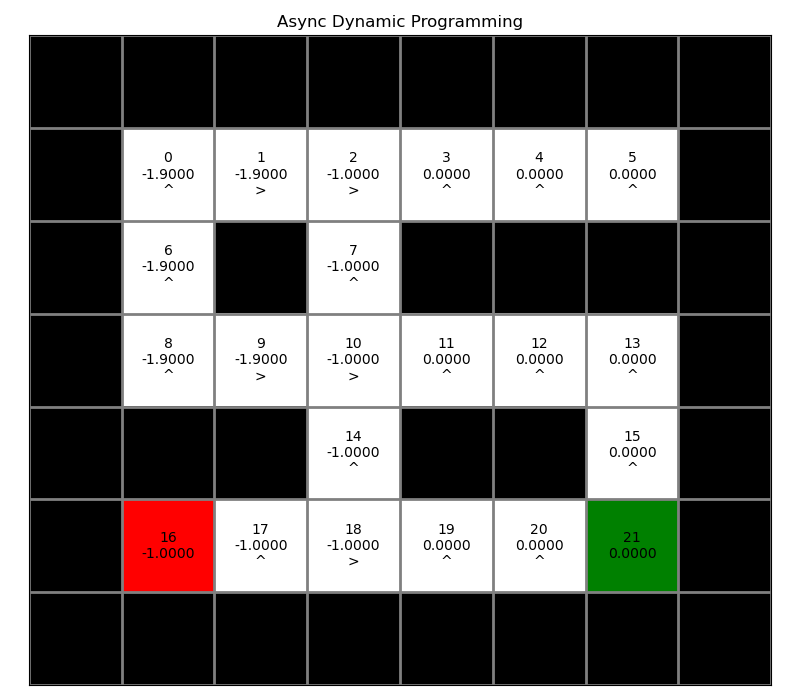
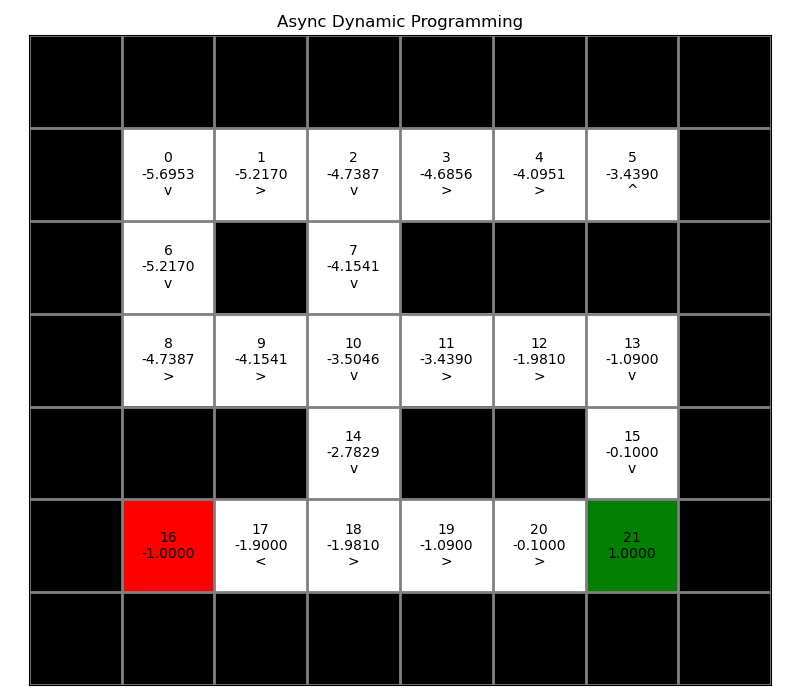
finish hw1

diff --git a/DP_solver.py b/DP_solver.py
@@ -60,6 +60,7 @@ class DynamicProgramming:
             done_flag = 0
         ## since step is 100% to the next_state, transition probability is 1
         return (reward + self.discount_factor * self.values[next_state] * done_flag)*1
+    
     def get_q_value_next_state(self, state: int, action: int):
         next_state, reward, done = self.grid_world.step(state, action)
         done_flag = 1
@@ -304,7 +305,7 @@ class AsyncDynamicProgramming(DynamicProgramming):
                 break
         self.policy_improvement()
 
-    def PrioritizedSweeping(self,threshold):
+    def PrioritizedSweeping(self,threshold): ## 0.47 for the best performence
         # Priority queue to store the states and their priorities
         priority_queue = []
         predecessors = []
@@ -328,19 +329,29 @@ class AsyncDynamicProgramming(DynamicProgramming):
         # Extract the optimal policy
         self.policy_improvement()
 
-    def realTimeDP(self):
+    def realTimeDP(self): ## best : 240 max_steps
+        
+        # convergence_list = np.zeros_like(self.values) 
         #for s in range(self.grid_world.get_state_space()):
-        state = 0
+        
         steps = 0
-        max_steps = 500
+        max_steps = 240
         while steps < max_steps:
-            self.values[state], next = self.get_state_value_next_state(state)
-            # Stop if we reach a terminal state
-            if next == -1:
-                break
-            state = next
-            steps += 1
-
+            state = 0
+            convergence_list = np.zeros_like(self.values)
+            while state != -1:
+                delta = 0
+                old_value = self.values[state]
+                self.values[state], next = self.get_state_value_next_state(state)
+                delta = max(delta, abs(old_value - self.values[state]))
+                if delta == 0:
+                    convergence_list[state] = 1
+                else:
+                    convergence_list[state] = 0
+                state = next
+                steps += 1
+                if state == -1 or convergence_list[state] == 1:
+                    break
         # Extract the optimal policy
         self.policy_improvement()
     def run(self) -> None:
